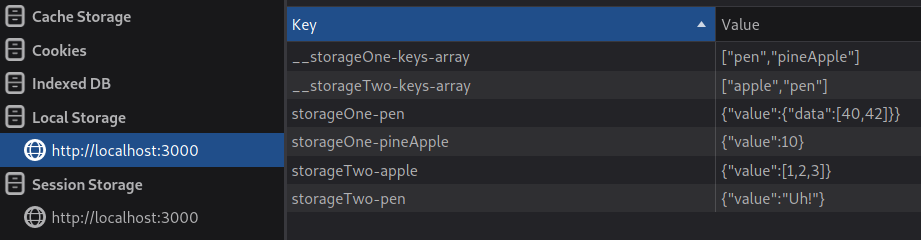
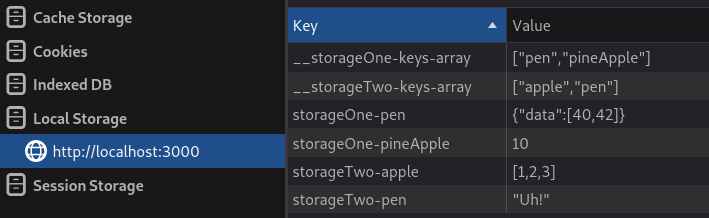
Value no longer wraps around

diff --git a/__tests__/sync.ts b/__tests__/sync.ts
@@ -24,6 +24,27 @@ const testsSetup = [
 ];
 
 testsSetup.forEach((setup) => {
+  it(`Sync, ${setup.name}: need cleaning before each test (start)`, () => {
+    const storage = createStorage({
+      use: new TestedInterface(),
+      useCache: setup.useCache,
+      name: 'settings',
+    });
+
+    storage.value = 'data from the previous test';
+    expect(storage.value).toEqual('data from the previous test');
+  });
+
+  it(`Sync, ${setup.name}: need cleaning before each test (end)`, () => {
+    const storage = createStorage({
+      use: new TestedInterface(),
+      useCache: setup.useCache,
+      name: 'settings',
+    });
+
+    expect(storage.value).toEqual(undefined);
+  });
+
   it(`Sync, ${setup.name}: read/write`, () => {
     const storage = createStorage({
       use: new TestedInterface(),
@@ -128,6 +149,19 @@ testsSetup.forEach((setup) => {
         'This Storage was deleted!'
       );
     }
+  });
+
+  it(`Sync, ${setup.name}: null and undefined`, () => {
+    const storage = createStorage({
+      use: new TestedInterface(),
+      useCache: setup.useCache,
+    });
+
+    storage.value = undefined;
+    expect(storage.value).toEqual(undefined);
+
+    storage.value = null;
+    expect(storage.value).toEqual(null);
   });
 
   it(`Sync, ${setup.name}: addDefault`, () => {
@@ -269,6 +303,44 @@ testsSetup.forEach((setup) => {
     expect(array).toEqual([
       ['value', 4],
       ['other', 5],
+    ]);
+  });
+
+  it(`Sync, ${setup.name}: delete key + iteration`, () => {
+    const storage = createStorage({
+      use: new TestedInterface(),
+      useCache: setup.useCache,
+    });
+
+    storage.value = 60;
+    storage.value2 = 50;
+    storage.value3 = 40;
+    storage.value4 = 30;
+
+    delete storage.value;
+    delete storage.value3;
+
+    expect(storage.value).toEqual(undefined);
+    expect(storage.value2).toEqual(50);
+    expect(storage.value3).toEqual(undefined);
+    expect(storage.value4).toEqual(30);
+
+    storage.value5 = 20;
+    storage.value = 1;
+    storage.value6 = 10;
+    storage.value8 = 0;
+    storage.value7 = 0;
+
+    const array = storage.entries();
+
+    expect(array).toEqual([
+      ['value2', 50],
+      ['value4', 30],
+      ['value5', 20],
+      ['value', 1],
+      ['value6', 10],
+      ['value8', 0],
+      ['value7', 0],
     ]);
   });
 });

diff --git a/src/index.ts b/src/index.ts
@@ -15,17 +15,6 @@ import {
 export const defaultUseCache = false;
 export const defaultAsyncMode = false;
 
-// localStorage returns `null`, not `undefined` if no value is found.
-// For this reason, it is necessary to wrap values in order
-// to be able to store `null` values.
-export type WrappedValue = Record<'value', unknown>;
-
-export interface LocalStorageSetup {
-  // If you are using cache, don't create more than one instance at the same time
-  useCache?: boolean;
-  [key: string]: unknown;
-}
-
 export class LocalStorageInterface extends StorageInterface {
   interfaceName = 'LocalStorageInterface';
 
@@ -99,8 +88,13 @@ export class LocalStorageInterface extends StorageInterface {
       return structuredClone(this.keyValueCache.get(key));
     }
     const valueStr = window.localStorage.getItem(this.keyName(key));
-    if (valueStr === null) return undefined;
-    const { value } = JSON.parse(valueStr) as WrappedValue;
+    if (valueStr === null || valueStr === 'undefined') {
+      return undefined;
+    }
+    if (valueStr === 'null') {
+      return null;
+    }
+    const value = JSON.parse(valueStr) as unknown;
     // Update keyValue cache
     if (this.useCache)
       this.keyValueCache.set(key, structuredClone(value));
@@ -116,7 +110,6 @@ export class LocalStorageInterface extends StorageInterface {
     const keysArray = this.useCache
       ? this.keysArrayCache
       : this.getKeysArray();
-    const wrappedValue: WrappedValue = { value };
     if (!keysArray.includes(key)) {
       keysArray.push(key);
       // Update keys array in storage
@@ -130,7 +123,7 @@ export class LocalStorageInterface extends StorageInterface {
     // Update storage
     window.localStorage.setItem(
       this.keyName(key),
-      JSON.stringify(wrappedValue)
+      JSON.stringify(value)
     );
     // Update keyValue cache
     if (this.useCache) {

diff --git a/README.md b/README.md
@@ -1,4 +1,4 @@
-# 🔥 Storage facade localStorage
+# 🔥 Storage facade localStorage: LocalStorageInterface
 
 An simple way to store data in localStorage.
 Supports caching, iteration and default values.
@@ -10,7 +10,7 @@ the actual storage implementation.
 ## Installation
 
 ```sh
-npm install storage-facade@4 storage-facade-localstorage@5
+npm install storage-facade@4 storage-facade-localstorage@6
 ```
 
 # Data structure
@@ -50,12 +50,14 @@ will create such keys in localStorage:
 
 ![localStorage](https://raw.githubusercontent.com/vglinka/storage-facade-localstorage/main/assets/localStorage.png)
 
-As you can see, each storage is separated from the other by a prefix,
-and each value is wrapped in an object `{ value: ... }`,
-allowing `null` values to be stored. For each storage, there is a variable
-that stores a list of keys and their order. Thus, one of the storages
-can be cleared without affecting the other storage, or other keys from other
-libraries also stored in localStorage.
+As you can see, each storage is separated from the other by a prefix.
+For each storage, there is a variable that stores a list of keys and their order.
+Thus, one of the storages can be cleared without affecting the other storage,
+or other keys from other libraries also stored in localStorage.
+
+If you don't want prefixes and extra variables with key arrays then use library
+[storage-facade-localstoragethin](https://www.npmjs.com/package/storage-facade-localstoragethin)
+instead.
 
 # Usage
 
